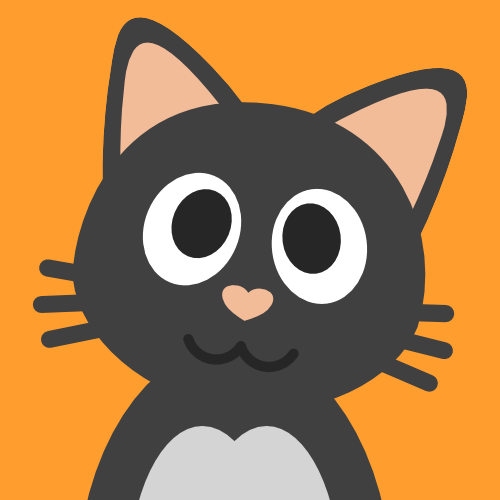
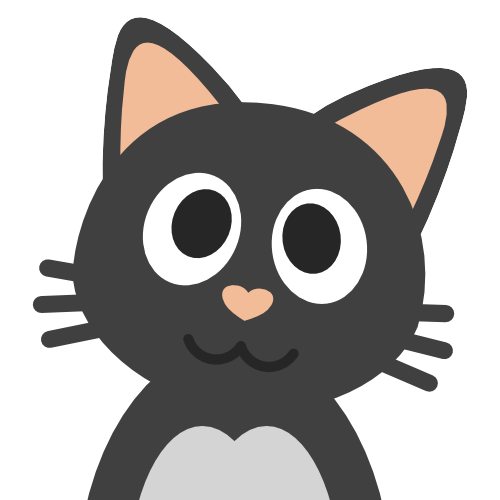
Updated imagery
Favicon
og image
og colour

diff --git a/web/index.html b/web/index.html
@@ -35,7 +35,8 @@ p.steps {
 <meta property="og:title" content="create a cat">
 <meta property="og:description" content="now you too can become cat">
 <meta property="og:image" content="https://jordyboothy.com/Assets/sme.png">
-<meta name="theme-color" content="#ff9e2f">
+<meta name="theme-color" content="#ffffff">
+<link rel="icon" type="image/png" href="http://jordyboothy/favicon.png">
 <!-- Global Site Tag (gtag.js) - Google Analytics -->
 <script async src="https://www.googletagmanager.com/gtag/js?id=UA-106674751-1"></script>
 <script>
